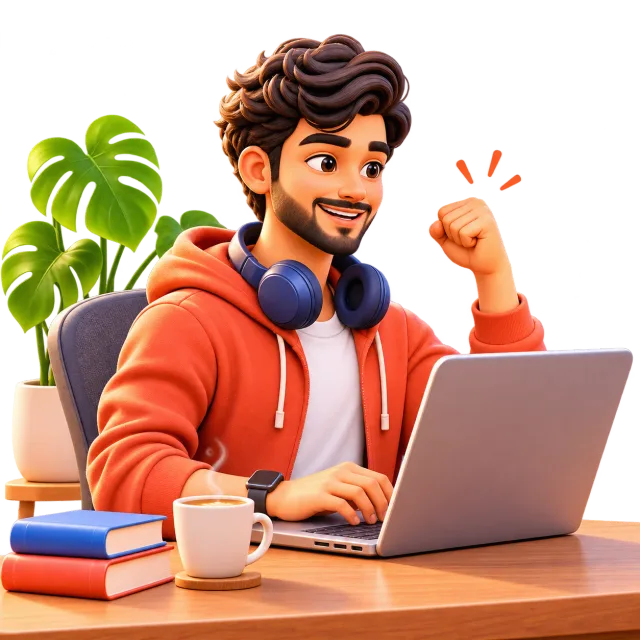
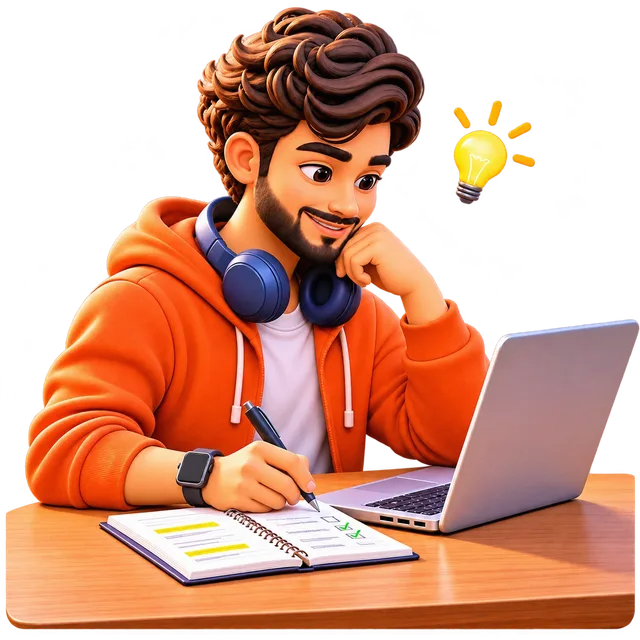
Use new hero character and fit three-column hero on laptops

diff --git a/src/components/dashboard/PrepHomeOverview.tsx b/src/components/dashboard/PrepHomeOverview.tsx
@@ -54,7 +54,8 @@ type Props = {
 };
 
 /** Transparent illustration of the candidate at a laptop. */
-const CHARACTER_SRC = "/images/dashboard/prep-hero-character.webp";
+// Bump the version whenever the artwork changes so browsers fetch the new file.
+const CHARACTER_SRC = "/images/dashboard/prep-hero-character.webp?v=2";
 const DONE_KEY = "pim_today_done"; // { [yyyy-mm-dd]: string[] } of finished task titles
 
 function dateKey(d: Date) {
@@ -178,7 +179,7 @@ export function PrepHomeOverview({
           <div aria-hidden="true" className="pointer-events-none absolute -left-10 top-6 size-64 rounded-full bg-[#ffd9c7]/60 blur-2xl" />
           <div
             className={`relative grid grid-cols-1 items-center gap-6 lg:grid-cols-[minmax(0,1fr)_300px] ${
-              showCharacter ? "2xl:grid-cols-[230px_minmax(0,1fr)_300px]" : ""
+              showCharacter ? "xl:grid-cols-[170px_minmax(0,1fr)_270px] 2xl:grid-cols-[230px_minmax(0,1fr)_300px]" : ""
             }`}
           >
             {showCharacter && (
@@ -189,7 +190,7 @@ export function PrepHomeOverview({
                 alt=""
                 aria-hidden="true"
                 onError={() => setShowCharacter(false)}
-                className="hero-character hidden w-full max-w-[240px] select-none drop-shadow-[0_18px_24px_rgba(64,38,25,0.18)] 2xl:block"
+                className="hero-character hidden w-full max-w-[240px] select-none drop-shadow-[0_18px_24px_rgba(64,38,25,0.18)] xl:block"
               />
             )}
 
